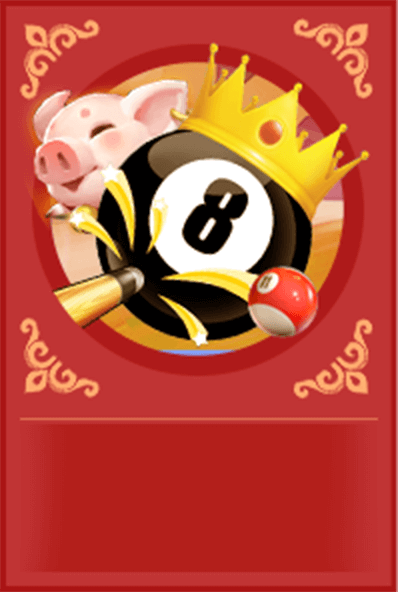
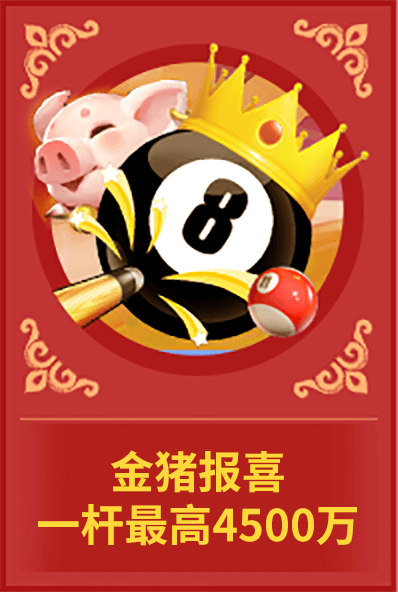
春节活动

diff --git a/src/views/springfestival/App.vue b/src/views/springfestival/App.vue
@@ -189,12 +189,6 @@
                         <div class="text" v-if="item==1">
                             捕鱼贺新春<br>话费疯狂送
                         </div>
-                        <div class="text" v-if="item==2">
-                            金猪报喜<br>一杆最高4500万
-                        </div>
-                        <div class="text" v-if="item==3">
-                            糖果新春版<br>来玩就送505元
-                        </div>
                     </div>
                     <div class="btn"></div>
                 </div>
@@ -795,7 +789,8 @@
             },
             gotocomplete() {//点击加赠红包去完成
                 this.burryPoint('1207003044', '春节红包-加赠红包-去完成')
-                this.isshowBonusFailure = true
+                // this.isshowBonusFailure = true
+                top.location.href='https://wap.beeplay123.com/payment/#/mall'
             },
             async getBatchRedDot(){
                 let res= await this.fetch('/wap/api/usertask/batchTaskStatus',{
@@ -1043,7 +1038,7 @@
             background: url("./images/hand.png");
             background-size: 100% 100%;
             z-index: 1;
-            animation: myPlay1 2s ease-in infinite;;
+            animation: myPlay1 4s ease-in infinite;;
         }
         ul {
             position: absolute;
